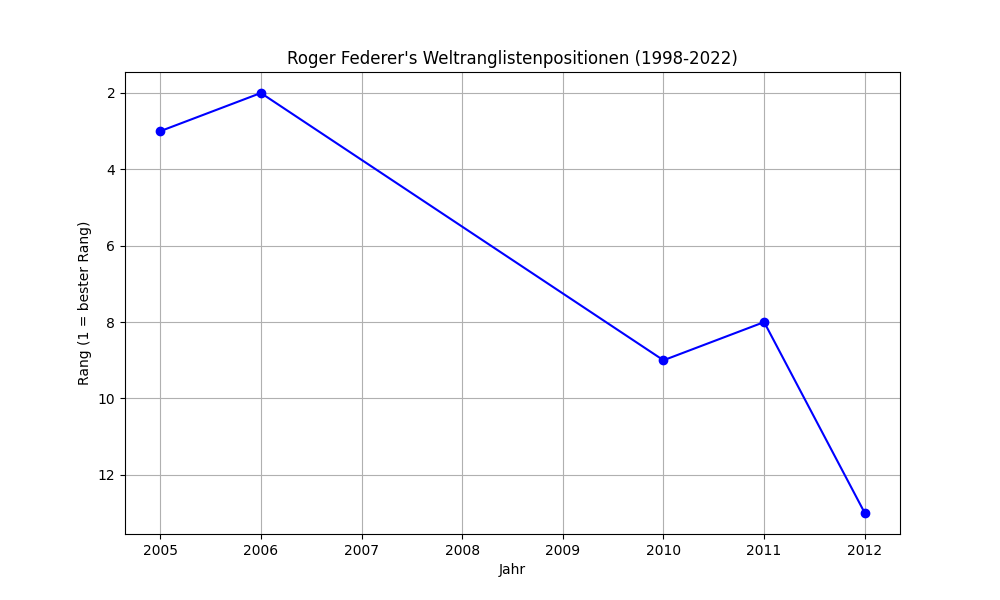
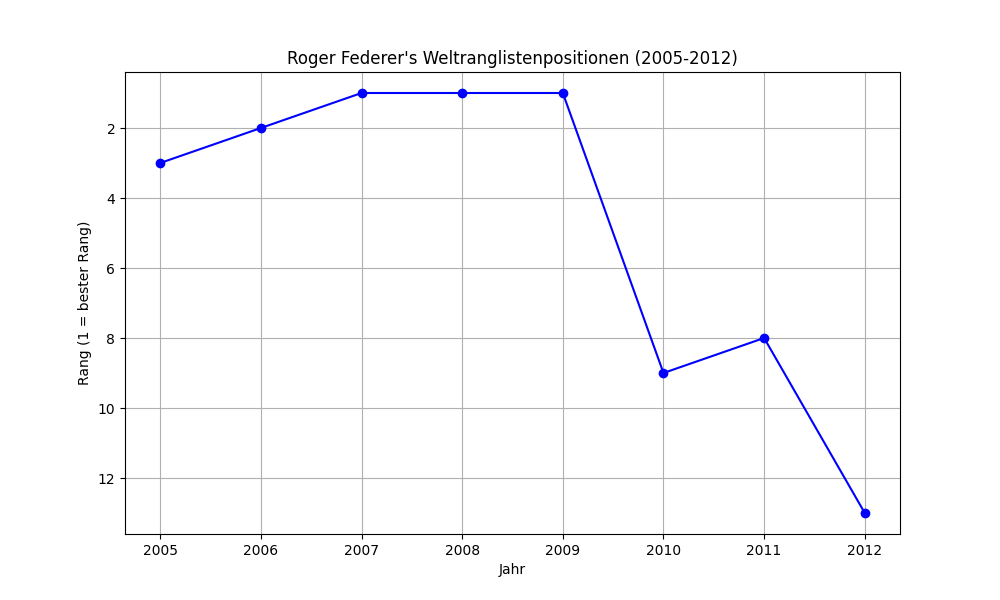
schnuppertag 10.2024

diff --git a/schnuppertag/federer_ranking.html b/schnuppertag/federer_ranking.html
@@ -34,7 +34,7 @@
                 <th>Jahr</th>
                 <th>Rang</th>
             </tr>
-    <tr><td>2012</td><td>13</td></tr><tr><td>2011</td><td>8</td></tr><tr><td>2010</td><td>9</td></tr><tr><td>2006</td><td>2</td></tr><tr><td>2005</td><td>3</td></tr>
+    <tr><td>2012</td><td>13</td></tr><tr><td>2011</td><td>8</td></tr><tr><td>2010</td><td>9</td></tr><tr><td>2009</td><td>1</td></tr><tr><td>2008</td><td>1</td></tr><tr><td>2007</td><td>1</td></tr><tr><td>2006</td><td>2</td></tr><tr><td>2005</td><td>3</td></tr>
         </table>
     </body>
     </html>
